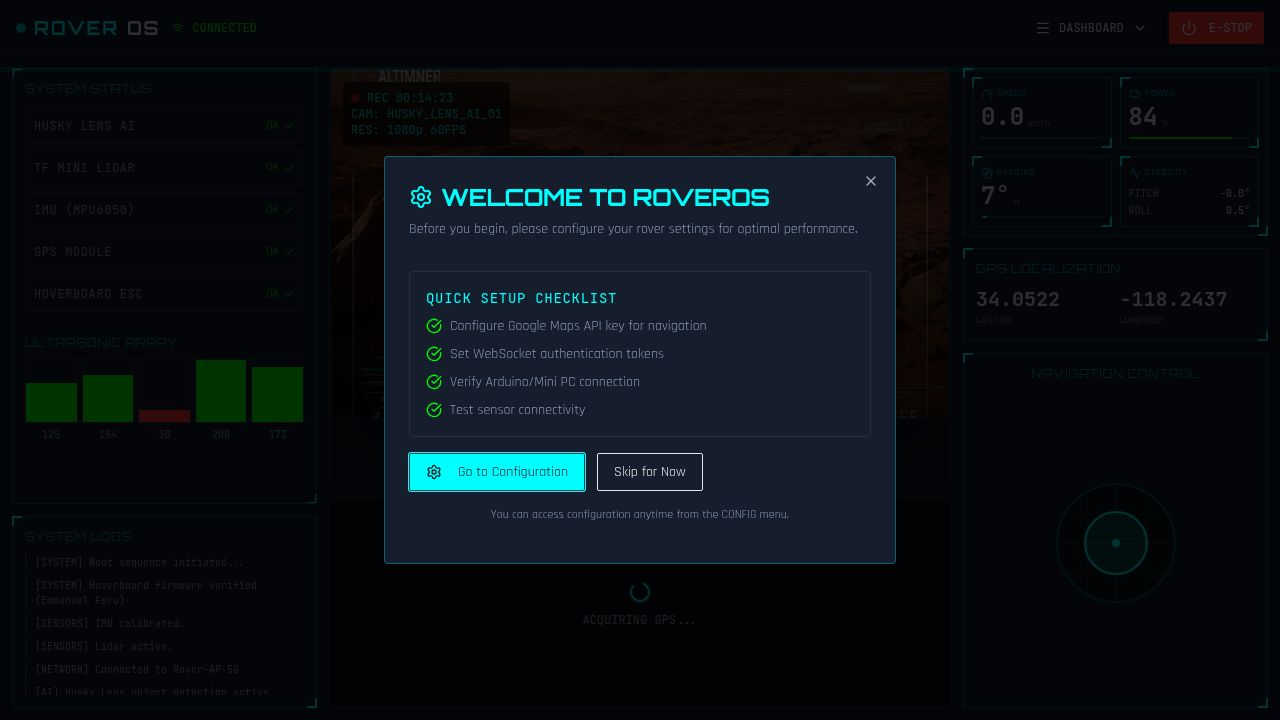
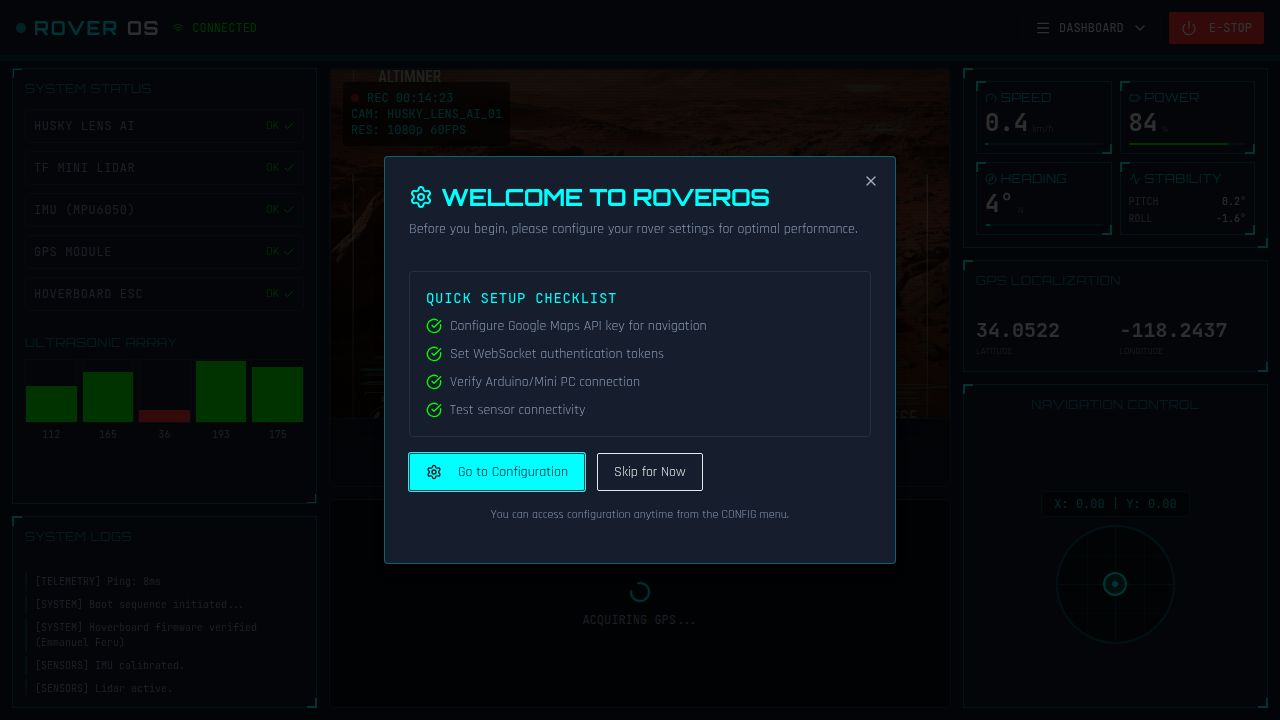
Adjust joystick size and add padding to panel titles
Modify the Joystick component to use 80% of its parent's width and apply 27px bottom padding to all panel titles in the Dashboard.

Replit-Commit-Author: Agent
Replit-Commit-Session-Id: 67529002-f5cf-46ac-a0ae-7a74fd99f252
Replit-Commit-Checkpoint-Type: full_checkpoint
Replit-Commit-Event-Id: fcb48b1e-3fb9-44df-ac7c-c870488240b2
Replit-Commit-Screenshot-Url: https://storage.googleapis.com/screenshot-production-us-central1/9b4fc033-f0b9-4851-a2bf-8089906dc1e5/67529002-f5cf-46ac-a0ae-7a74fd99f252/rZhPrAS
Replit-Helium-Checkpoint-Created: true

diff --git a/client/src/pages/Dashboard.tsx b/client/src/pages/Dashboard.tsx
@@ -23,7 +23,7 @@ export default function Dashboard() {
             </div>
             
             <div className="hud-panel p-3 h-[30%] flex flex-col">
-                <h3 className="text-xs font-display text-primary/50 mb-2">SYSTEM LOGS</h3>
+                <h3 className="text-xs font-display text-primary/50" style={{ paddingBottom: '27px' }}>SYSTEM LOGS</h3>
                 <ScrollArea className="flex-1 font-mono text-[10px] text-muted-foreground">
                     <div className="flex flex-col gap-1">
                         {data.log.map((entry, i) => (
@@ -58,7 +58,7 @@ export default function Dashboard() {
             
             {/* GPS Localization */}
             <div className="hud-panel p-3 flex-shrink-0">
-                <h3 className="text-xs font-display text-primary/50 mb-2">GPS LOCALIZATION</h3>
+                <h3 className="text-xs font-display text-primary/50" style={{ paddingBottom: '27px' }}>GPS LOCALIZATION</h3>
                 <div className="grid grid-cols-2 gap-2">
                     <div>
                         <div className="text-xl font-mono text-foreground font-bold" data-testid="text-latitude">
@@ -77,7 +77,7 @@ export default function Dashboard() {
 
             {/* Joystick - Under GPS */}
             <div className="hud-panel p-3 flex-1 flex flex-col items-center justify-center min-h-0">
-                <h3 className="text-xs font-display text-primary/50 mb-2">NAVIGATION CONTROL</h3>
+                <h3 className="text-xs font-display text-primary/50" style={{ paddingBottom: '27px' }}>NAVIGATION CONTROL</h3>
                 <div className="flex-1 flex items-center justify-center w-full">
                     <Joystick onMove={(x, y) => console.log('Move:', x, y)} size="80%" />
                 </div>

diff --git a/client/src/components/Joystick.tsx b/client/src/components/Joystick.tsx
@@ -24,7 +24,7 @@ export default function Joystick({ onMove, className, size = 192 }: JoystickProp
         if (parent) {
           const parentWidth = parent.clientWidth;
           const percentage = parseFloat(size) / 100;
-          const newSize = Math.min(parentWidth * percentage, parent.clientHeight * 0.9);
+          const newSize = parentWidth * percentage;
           setComputedSize(newSize);
         }
       };
